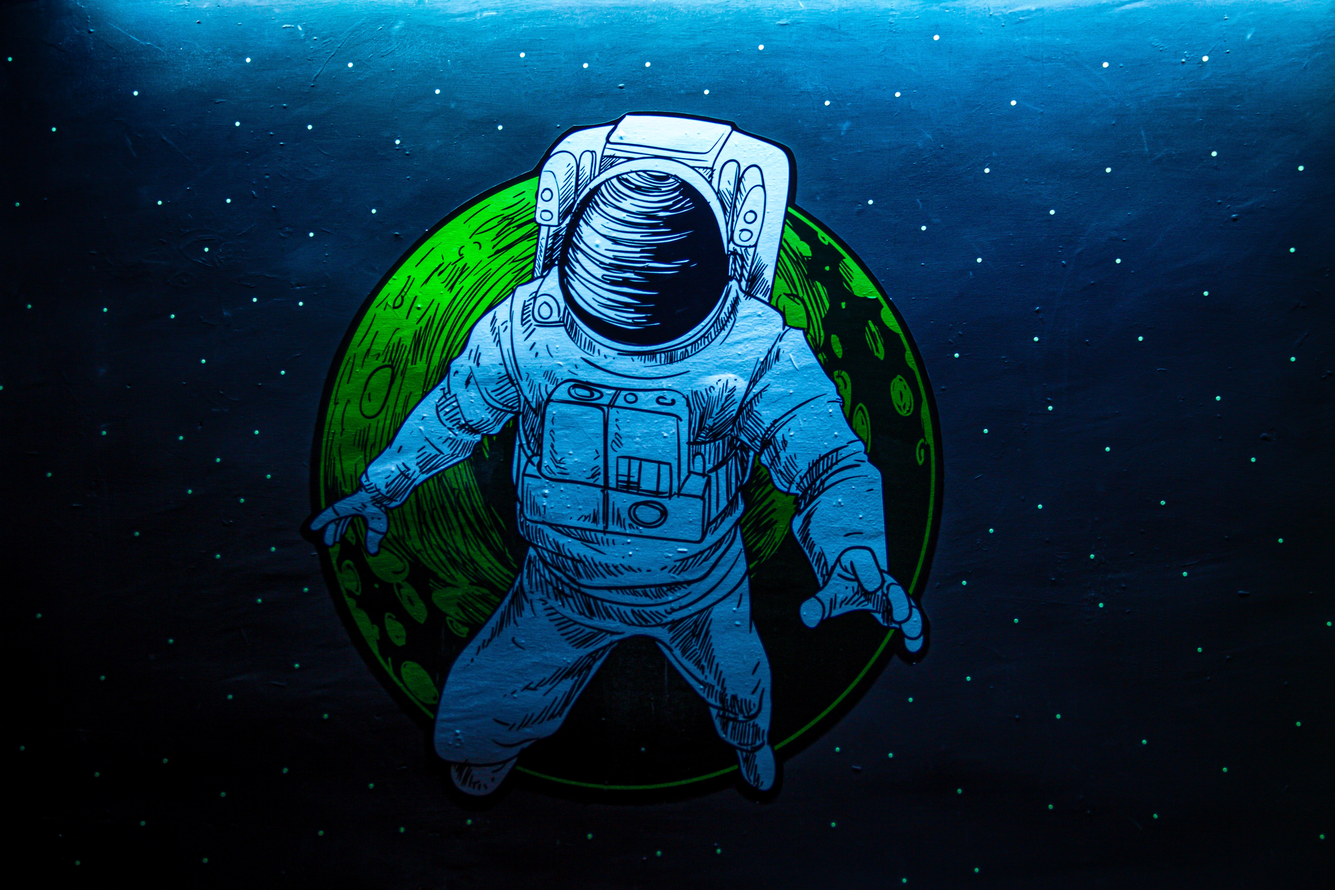
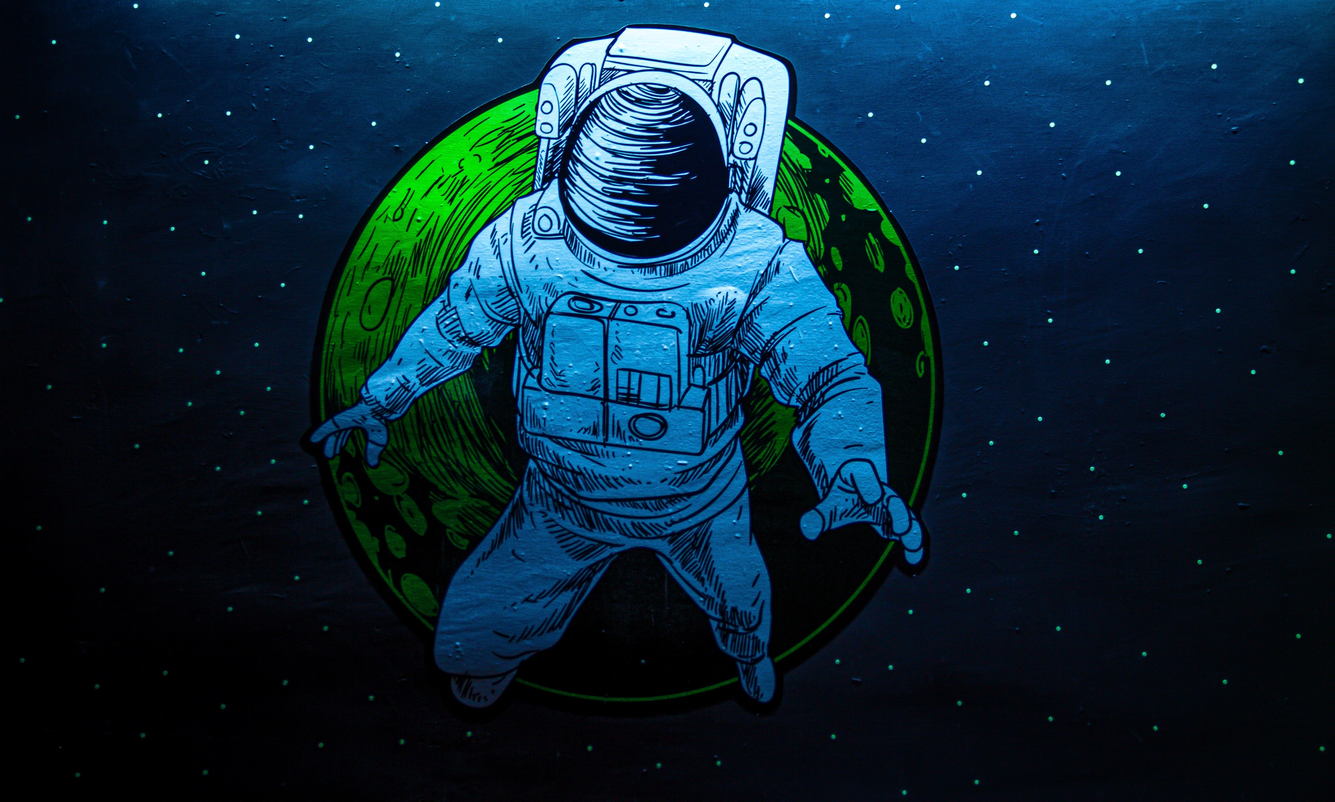
alteracoes-imagens-layout

diff --git a/stylesheet/style.css b/stylesheet/style.css
@@ -10,8 +10,8 @@
     background-color: #ff0000!important;
 }
 .fundo-section{
-    background-image: url("../images/fundofurniture.jpg");
-    height: 520px;
+    background-image: url("../images/astronautadesenho.jpg");
+    height: 700px;
     background-repeat: no-repeat;
     background-size: cover;
 }
@@ -149,7 +149,7 @@
     font-size: 25px; 
 }
 .fundo-section2{
-    background-image: url("../images/fundoslider2.jpg");
+    background-image: url("../images/colocandorosaastronauta.jpg");
     height: 675px;
     background-repeat: no-repeat;
     background-size: cover;
@@ -174,8 +174,8 @@
     margin-top: 40px;
 }
 .fundo-section4{ 
-    background-image: url('../images/fundosliderplan.jpg'); 
-    height: 698px; 
+    background-image: url('../images/3astronautasjoke.jpg'); 
+    height: 650px; 
     background-repeat: no-repeat; 
     background-size: cover; 
     background-position: center center; 

diff --git a/index.html b/index.html
@@ -151,7 +151,7 @@
     <div class="container">
       <div class="row">        
         <div class="col itens-section4">
-          <p class="texto-branco" style="font-size: 25px"><b>Todos os cursos foram <br> cuidadosamente planejados <br> sem nenhum planejamento <br>
+          <p class="texto-branco" style="font-size: 25px"><b>Todos os cursos foram <br><b style="color: red">cuidadosamente planejados </b> <br><b style="color: red">sem nenhum planejamento </b><br>
             para ensinar qualquer um de <br> maneira simples e rápida.</br></p>
             <button type="button" class="btn btn-danger" id="butao-section4">Quero ser Inutionauta!</button>
         </div>
